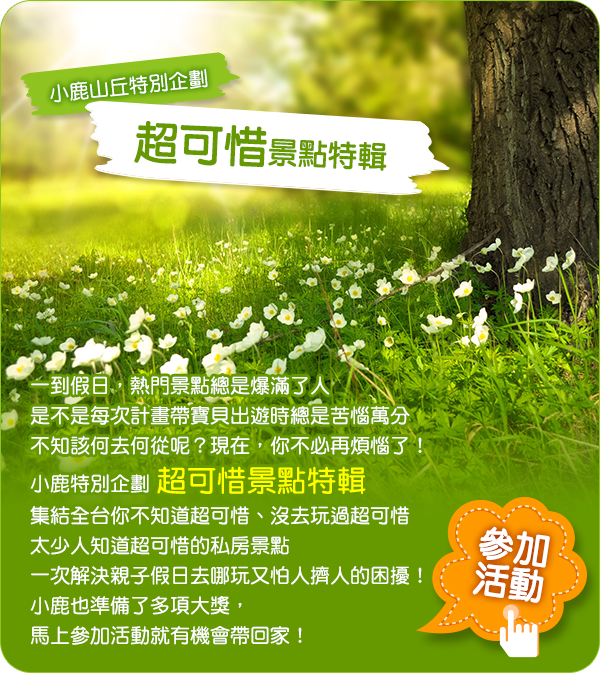
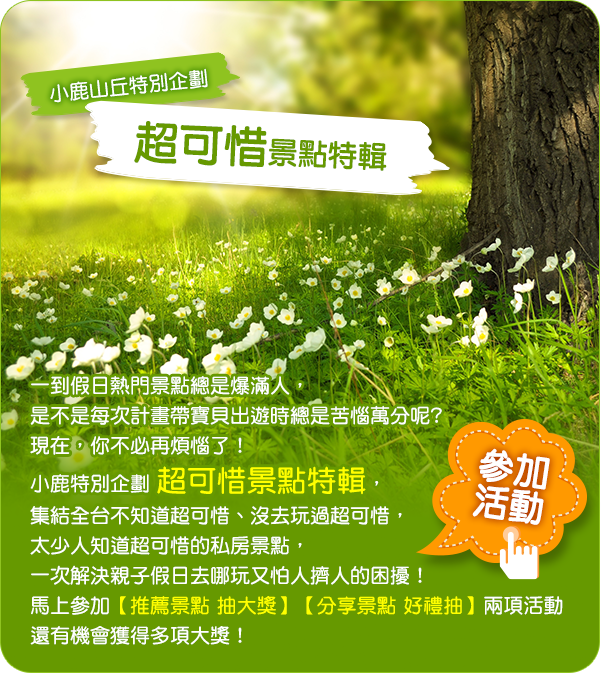
change event page img

diff --git a/eggshell_v01/css/map.css b/eggshell_v01/css/map.css
@@ -411,6 +411,6 @@
 }
 
 .fb-share-action {
-    margin-top: 65px;
-    width: 80px;
+    margin-top: 52px;
+    width: 115px;
 }

diff --git a/eggshell_v01/css/event.css b/eggshell_v01/css/event.css
@@ -25,7 +25,6 @@
 
 .event-taiwan {
     margin-top: 30px;
-    margin-bottom: -105px;
 }
 
 .event-rule {
